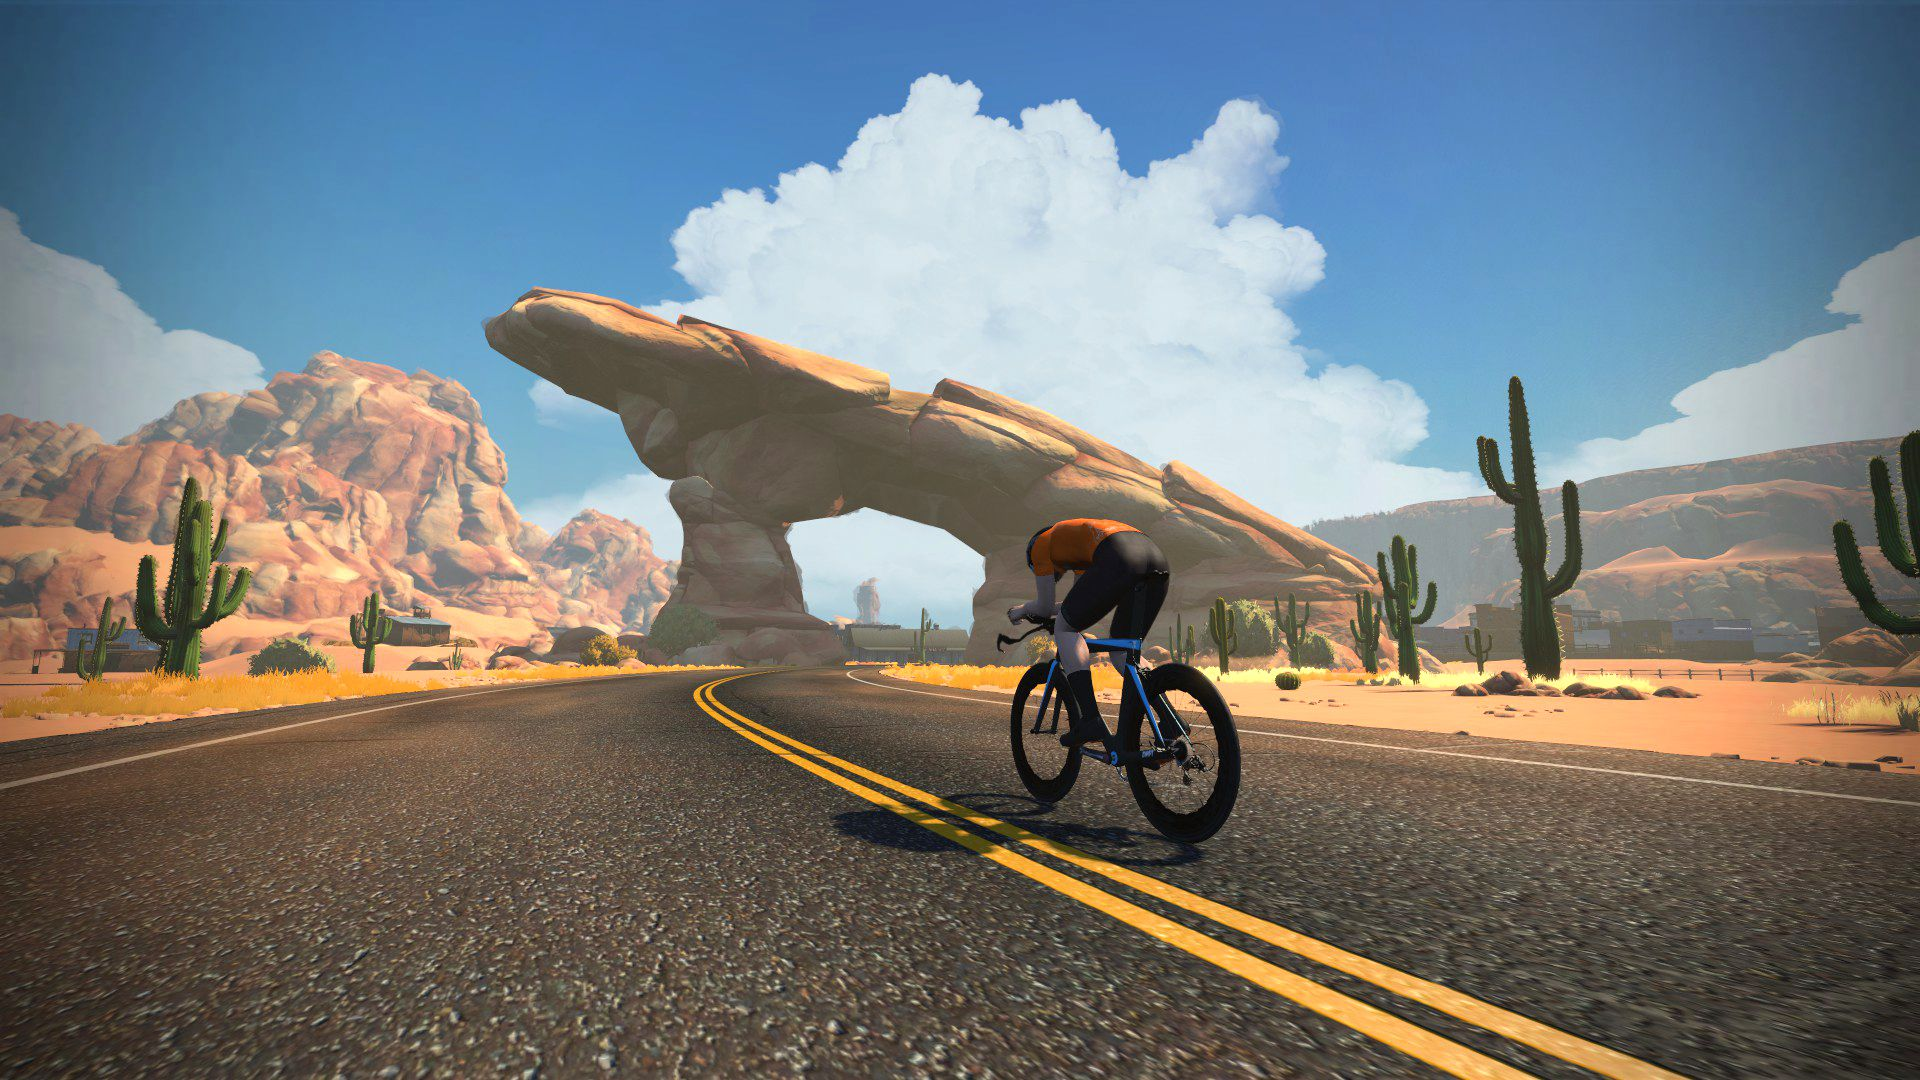
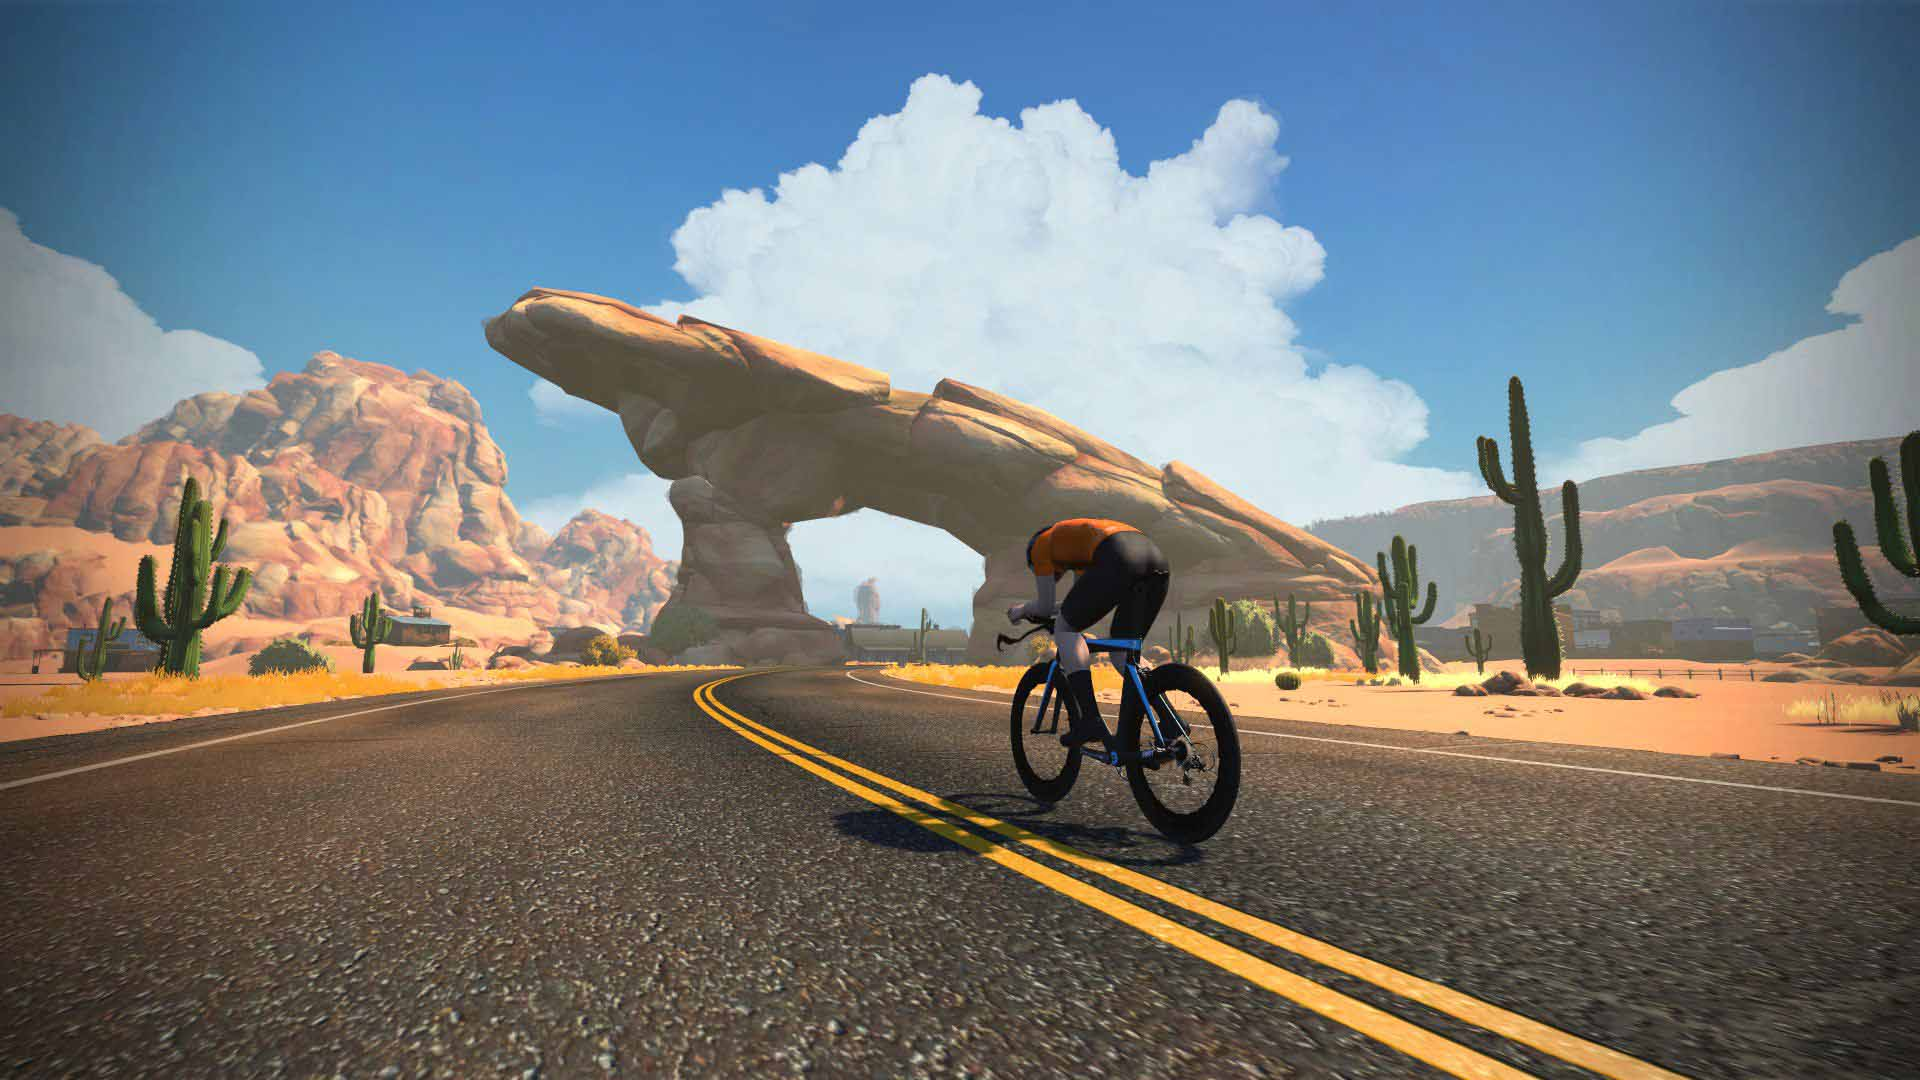
reduced the quality of images for backgrounds

diff --git a/client/src/Pages/Message/Message.jsx b/client/src/Pages/Message/Message.jsx
@@ -2,12 +2,14 @@ import React from 'react';
 import { Link, useParams } from 'react-router-dom';
 
 import t from '../../locales/ru.json';
+import useBackground from '../../hook/useBackground';
 
 import styles from './Message.module.css';
 
 function Message() {
   const { messageId, additional } = useParams();
   const message = t.message[messageId];
+  useBackground(true, 1);
 
   return (
     <main className={styles.wrapper}>

diff --git a/client/src/Pages/Auth/Auth.module.css b/client/src/Pages/Auth/Auth.module.css
@@ -7,7 +7,7 @@
 .title {
   font-size: 20px;
   line-height: 23px;
-  color: var(--color-text-minor);
+  color: var(--color-text-main);
   margin-bottom: 20px;
 }
 .inner {
